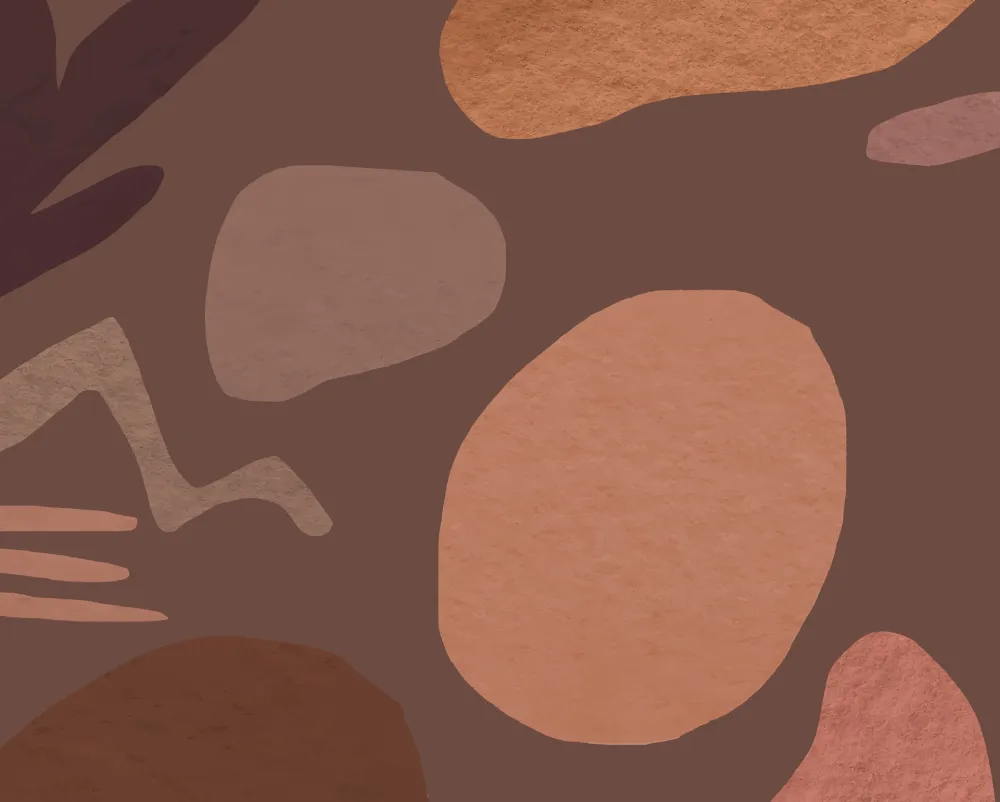
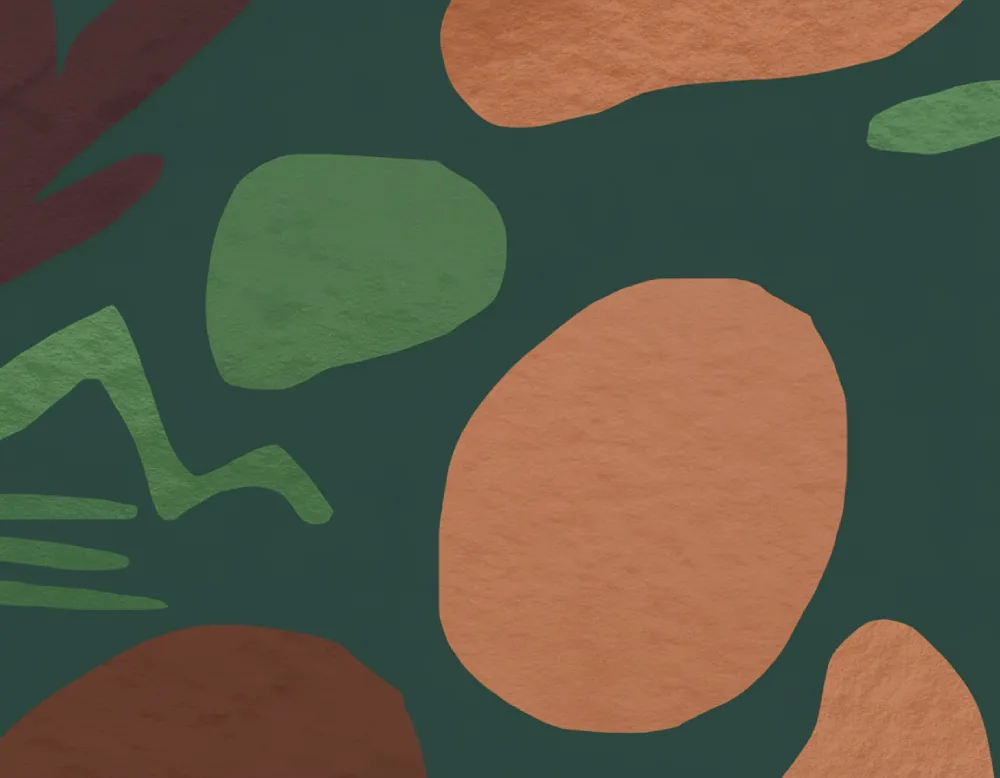
theme Changed

diff --git a/css/style.css b/css/style.css
@@ -62,7 +62,7 @@
 
 /* Show tooltip on hover */
 
-:root {
+/* :root {
   --primary-color: #6d4b25;
   --secondary-color: #5E3023;
   --accentColour: #895737;
@@ -71,6 +71,16 @@
   --lightBg: #DAB49D;
   --lightBgCream: #e5e5e5;
   --extraLight:#f3ecea;
+} */
+:root {
+  --primary-color: #D97B59;
+  --secondary-color: #174D3F;
+  --accentColour: #267E66;
+  --lightGrey: #919191;
+  --fade: #C08552;
+  --lightBg: #ECAB93;
+  --lightBgCream: #cbede4;
+  --extraLight: #ffecea;
 }
 
 * {
@@ -184,7 +194,7 @@ img {
   z-index: 1055;
 }
 .wrapheder{
-  min-height: 111px;
+  min-height: 90.66px;
   background-color: var(--lightBgCream);
 }
 
@@ -217,7 +227,7 @@ img {
   color: var(--accentColour);
   font-size: 18px;
   font-weight: bold;
-  padding: 34px 8px;
+  padding: 20px 8px;
   display: block;
   transition: color 0.3s ease-in-out;
 }
@@ -236,12 +246,12 @@ img {
   display: inline-block;
   margin-right: 45px;
   padding-right: 10px;
-  width: 108px;
+  width: 214px;
 }
 
 
 .dropdownList .navLink{
-  color: var(--lightBg);
+  color: var(--secondary-color);
   padding: 14px 20px;
   display: block;
   border-bottom: 1px solid var(--grey);
@@ -250,8 +260,8 @@ img {
   transition: background-color 0.3s ease-in-out, color 0.3s ease-in-out;
 }
 .dropdownList .navLink:hover{
-  background-color: var(--lightBgCream);
-    color: var(--secondary-color);
+  background-color: var(--secondary-color);
+    color: #ffffff;
 }
 
 /* Dropdown Styling */
@@ -259,7 +269,7 @@ img {
   position: absolute;
   top: 100%;
   left: 0;
-  background: var(--primary-color);
+  background: var(--lightBg);
   list-style: none;
   min-width: 200px;
   opacity: 0;
@@ -554,12 +564,11 @@ img {
   bottom: 94px;
 }
 .footer {
-  background: 0 0 / cover var(--primary-color);
+  background: 0 0 / cover var(--secondary-color);
 }
 .footer .footer-brand {
   display: block;
-  width: 115px;
-  min-width: 115px;
+  width: 204px;
   margin: auto;
   margin-bottom: 16px;
 }
@@ -678,6 +687,7 @@ img {
 }
 .f-bottom {
   background: var(--secondary-color);
+  border-top: 2px solid var(--accentColour);
   padding: 12px 0;
   color: #fff;
 }
@@ -810,10 +820,16 @@ margin-top: 16px;
 transition: color 0.6s ease-in-out 0.2s;
 }
 .WhyChooseCard:hover .therdH{
-  color: var(--lightBgCream);
+  color: var(--secondary-color);
 }
 .WhyChooseCard:hover .iconWhy{
-  color: var(--lightBgCream);
+  color: var(--secondary-color);
+}
+.WhyChooseCard p{
+  transition: color 0.6s ease-in-out 0.2s;
+}
+.WhyChooseCard:hover p{
+  color: #ffffff;
 }
 .WhyChooseCard .iconWhy{
   color: var(--fade);
@@ -1568,7 +1584,7 @@ invalid:focus, .was-validated .form-control:invalid:focus {
 }
 
 .ContactForm  .btnOutline::before{
-  background-color: #dab49dc2;
+  background-color: var(--accentColour);
   z-index: -1;
   transition: all 0.8s cubic-bezier(0.23, 1, 0.320, 1);
 }

diff --git a/css/responsive.css b/css/responsive.css
@@ -1,13 +1,4 @@
-:root {
-  --primary-color: #6d4b25;
-  --secondary-color: #5E3023;
-  --accentColour: #895737;
-  --lightGrey: #919191;
-  --fade: #C08552;
-  --lightBg: #DAB49D;
-  --lightBgCream: #dfdfdf;
-  --extraLight:#f3ecea;
-}
+
 @media (max-width: 1399.98px) {
   
 }
